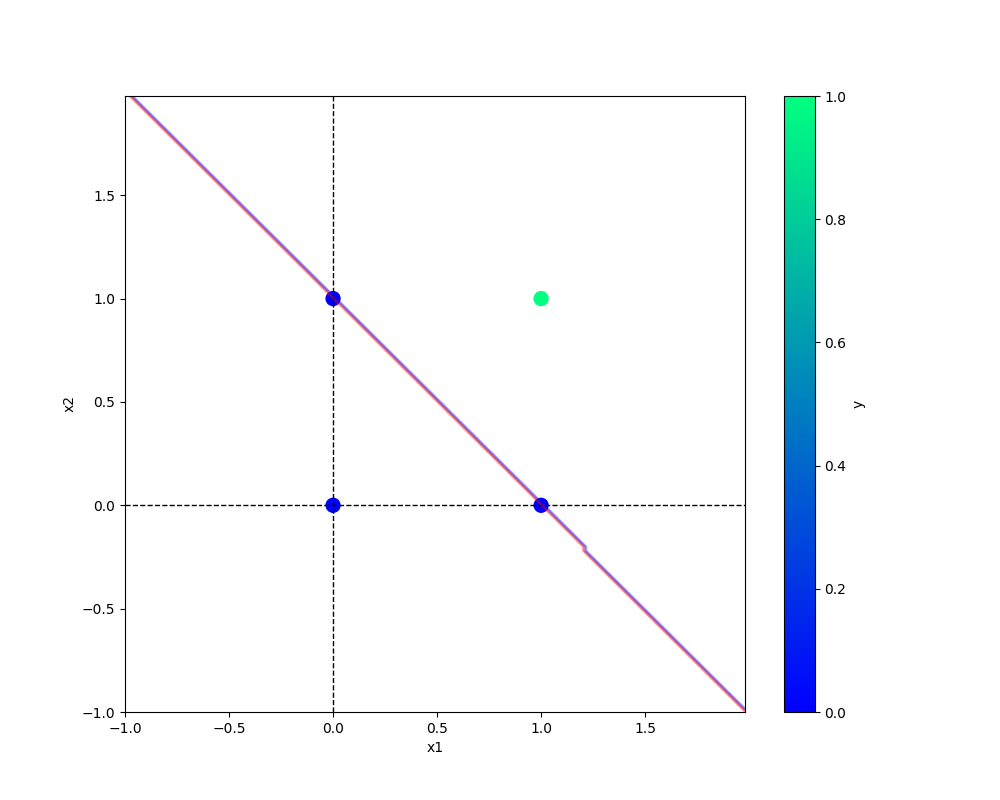
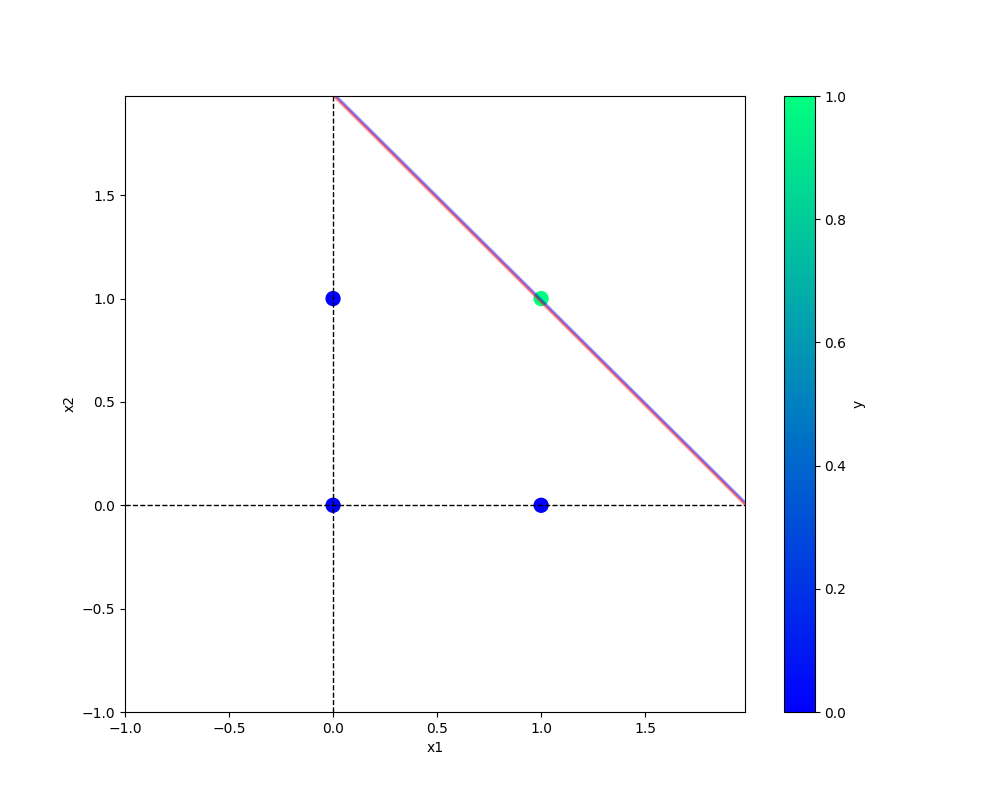
Or and Exor commit

diff --git a/Utils/exor.py b/Utils/exor.py
@@ -1,0 +1,24 @@
+from model import Perceptron
+from all_utils import prepare_data, save_model, save_plot
+import pandas as pd
+import numpy as np
+
+
+#EXOR gate data
+
+data={"x1":[0,0,1,1],"x2":[0,1,0,1],"y":[0,1,1,0]}
+EXOR=pd.DataFrame(data)
+
+
+
+
+x,y= prepare_data(EXOR)
+
+ETA = 0.3 # 0 and 1
+EPOCHS= 10
+model_exor= Perceptron(eta=ETA,epochs=EPOCHS)
+model_exor.fit(x,y)
+_=model_exor.total_loss()
+
+save_model(model_exor, filename="exor.model")
+save_plot(EXOR,"EXOR.png",model_exor)

diff --git a/Utils/or.py b/Utils/or.py
@@ -1,0 +1,21 @@
+from model import Perceptron
+from all_utils import prepare_data, save_model, save_plot
+import pandas as pd
+import numpy as np
+#Or gate data
+
+data={"x1":[0,0,1,1],"x2":[0,1,0,1],"y":[0,1,1,1]}
+OR=pd.DataFrame(data)
+
+
+
+x,y= prepare_data(OR)
+
+ETA = 0.3 # 0 and 1
+EPOCHS= 10
+model_or= Perceptron(eta=ETA,epochs=EPOCHS)
+model_or.fit(x,y)
+_=model_or.total_loss()
+
+save_model(model_or, filename="or.model")
+save_plot(OR,"OR.png",model_or)
